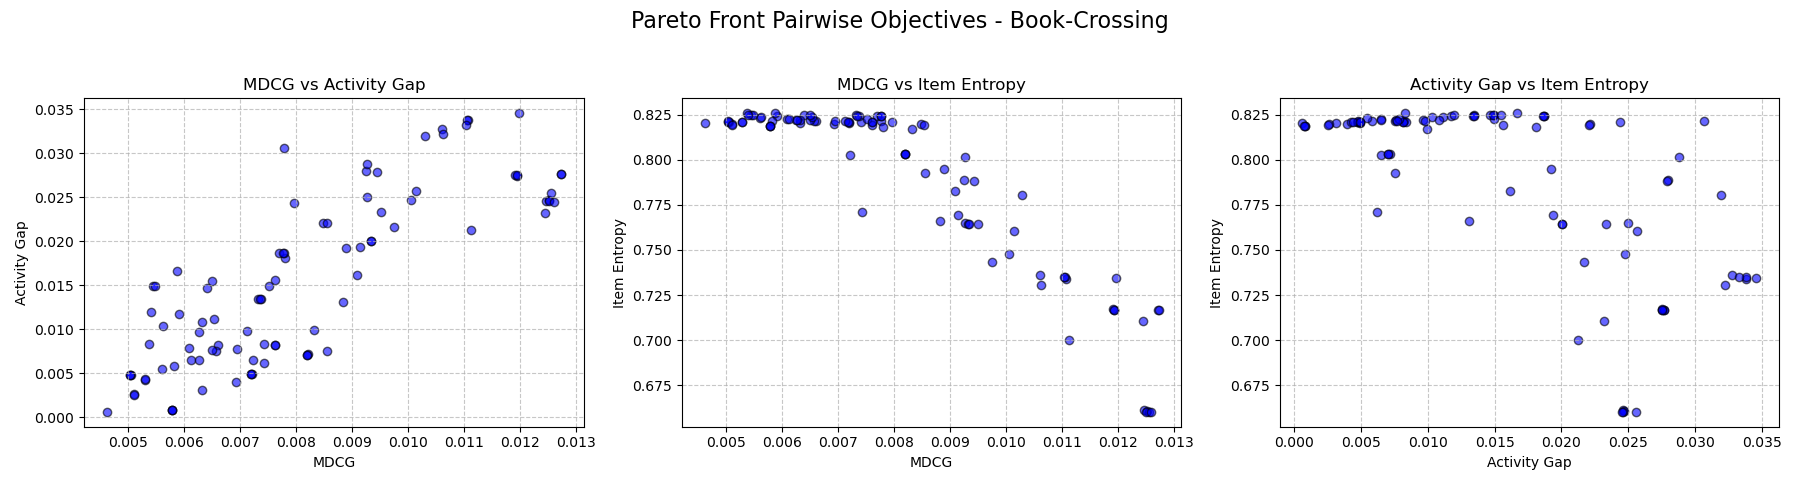
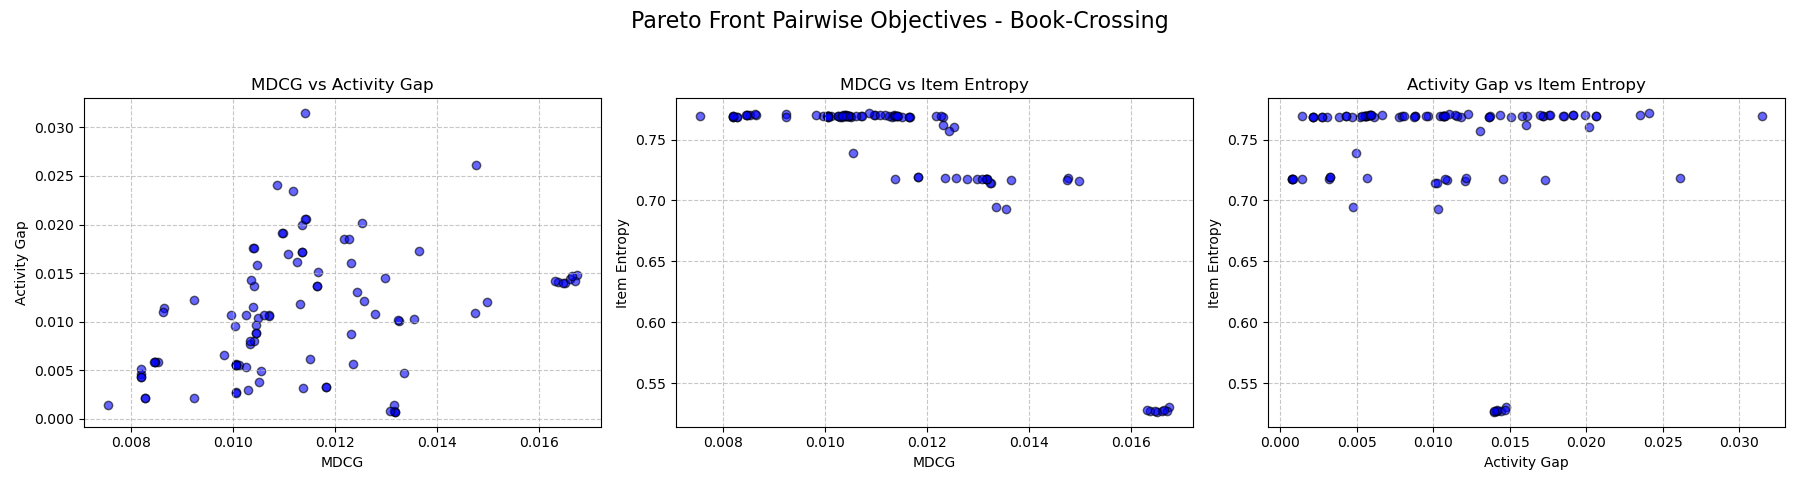
Metric and recommender changes

diff --git a/metrics.py b/metrics.py
@@ -120,8 +120,8 @@ def calculate_shannon_entropy(recs_indices, num_items):
     # Shannon entropy: H = -sum(p * log2(p))
     entropy = -np.sum(probabilities * np.log2(probabilities))
 
-    # Normalize by maximum possible entropy (uniform over all recommended items)
-    max_entropy = np.log2(len(non_zero_counts))
+    # Normalize by maximum possible entropy (uniform over entire catalog)
+    max_entropy = np.log2(num_items)
 
     return entropy / max_entropy if max_entropy > 0 else 0.0
 

diff --git a/recommender.py b/recommender.py
@@ -14,7 +14,7 @@ def train_svd_surprise(trainset, random_state=42):
     Returns:
         SVD: Trained SVD model
     """
-    algo = SVD(random_state=random_state)
+    algo = SVD(random_state=random_state, biased=False)
     algo.fit(trainset)
     return algo
 
